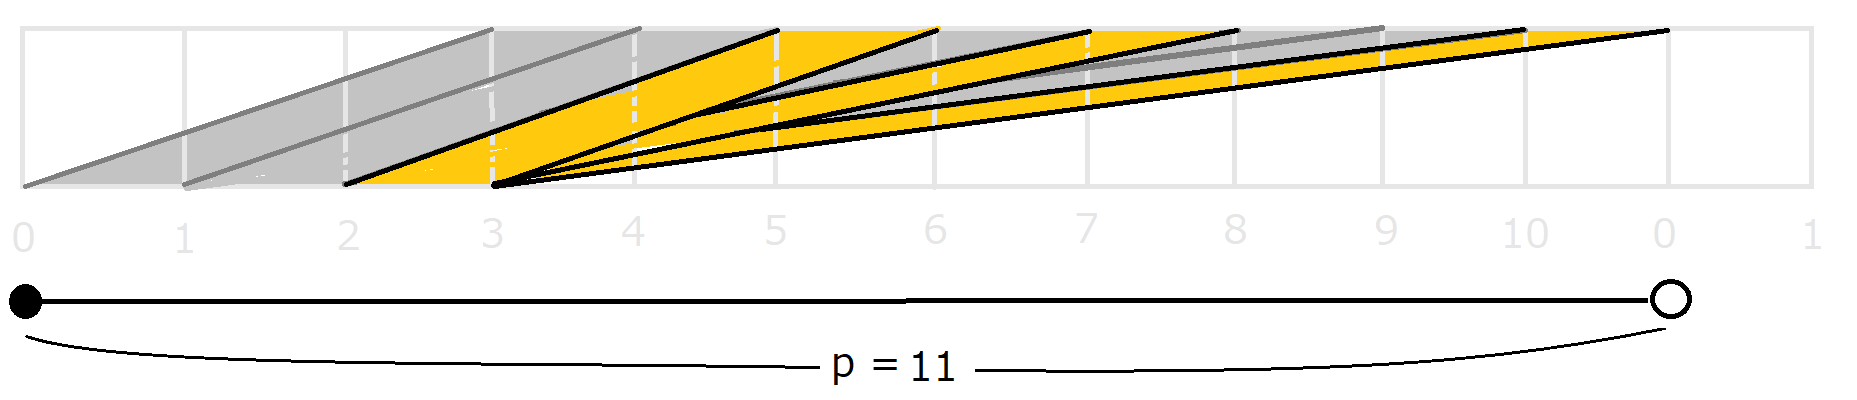
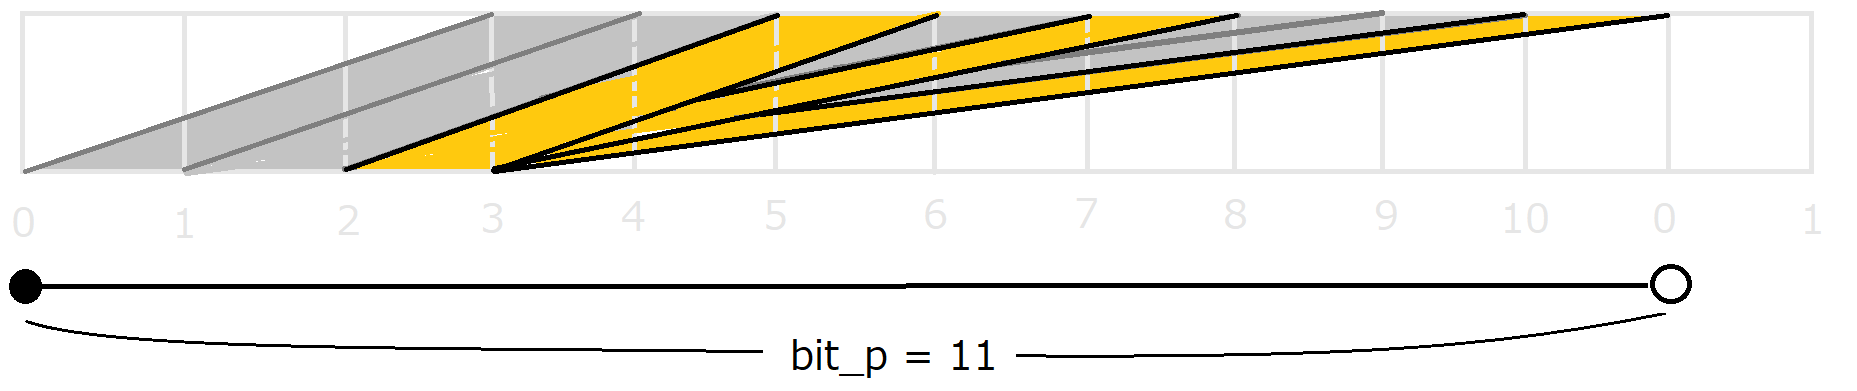
explain

diff --git a/me/ideas/drawing/main.py b/me/ideas/drawing/main.py
@@ -18,7 +18,7 @@ len_Nz = 200
 
 
 def main():
-    gen_s_a_b_c_image(a=3, b=7, c=8, len_Nz=len_Nz,
+    gen_s_a_b_c_image(a=3, b=4, c=10, len_Nz=len_Nz,
                       zoom=zoom, is_temporary=False)
 
     # Clouds passer
